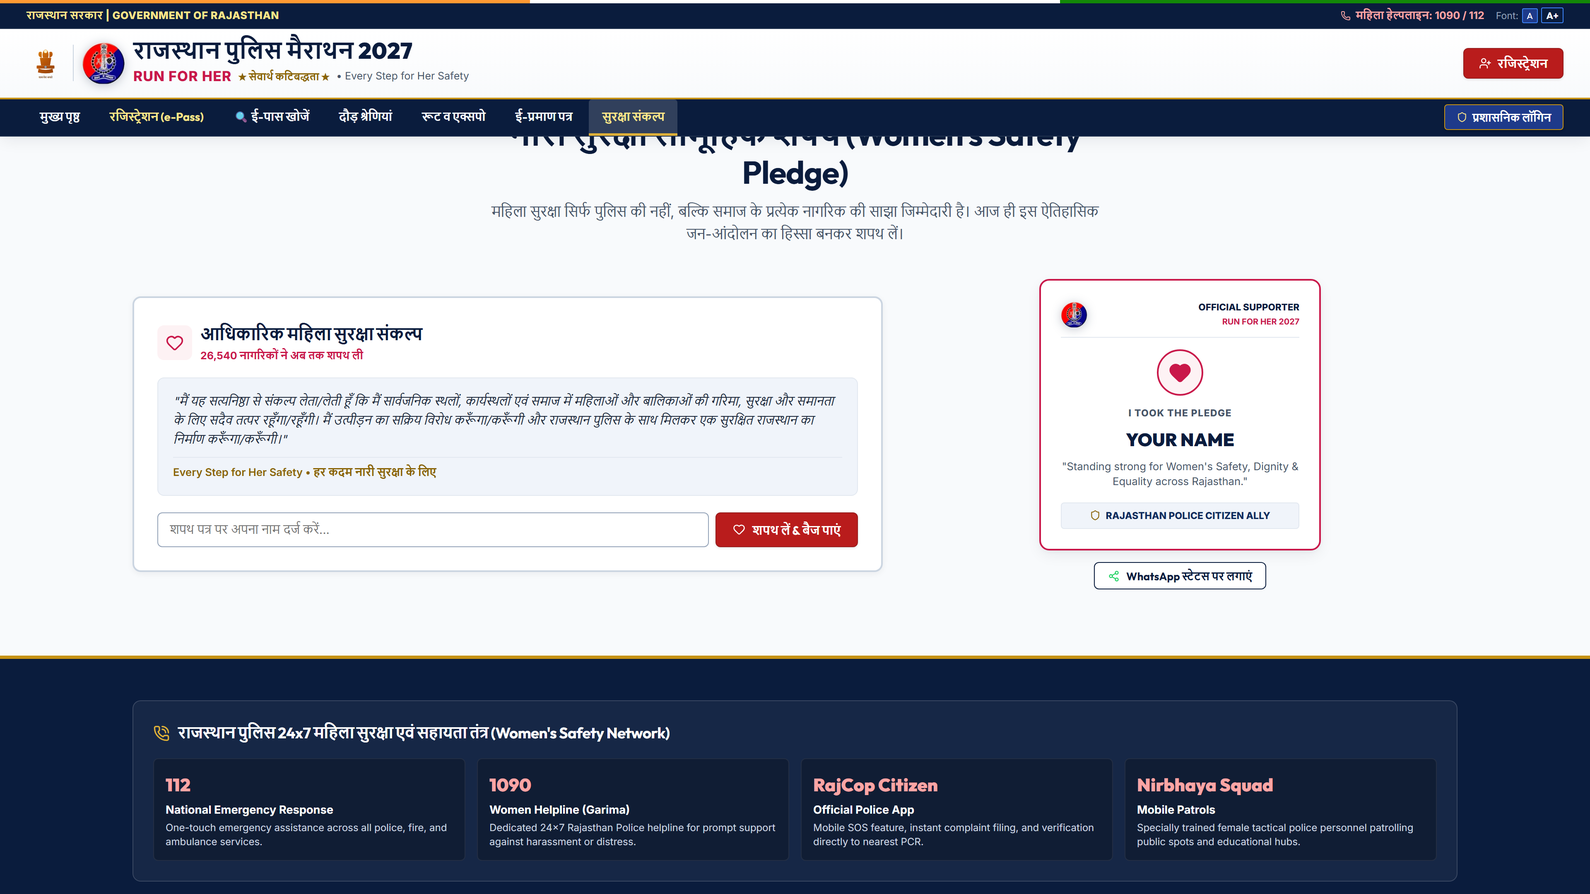
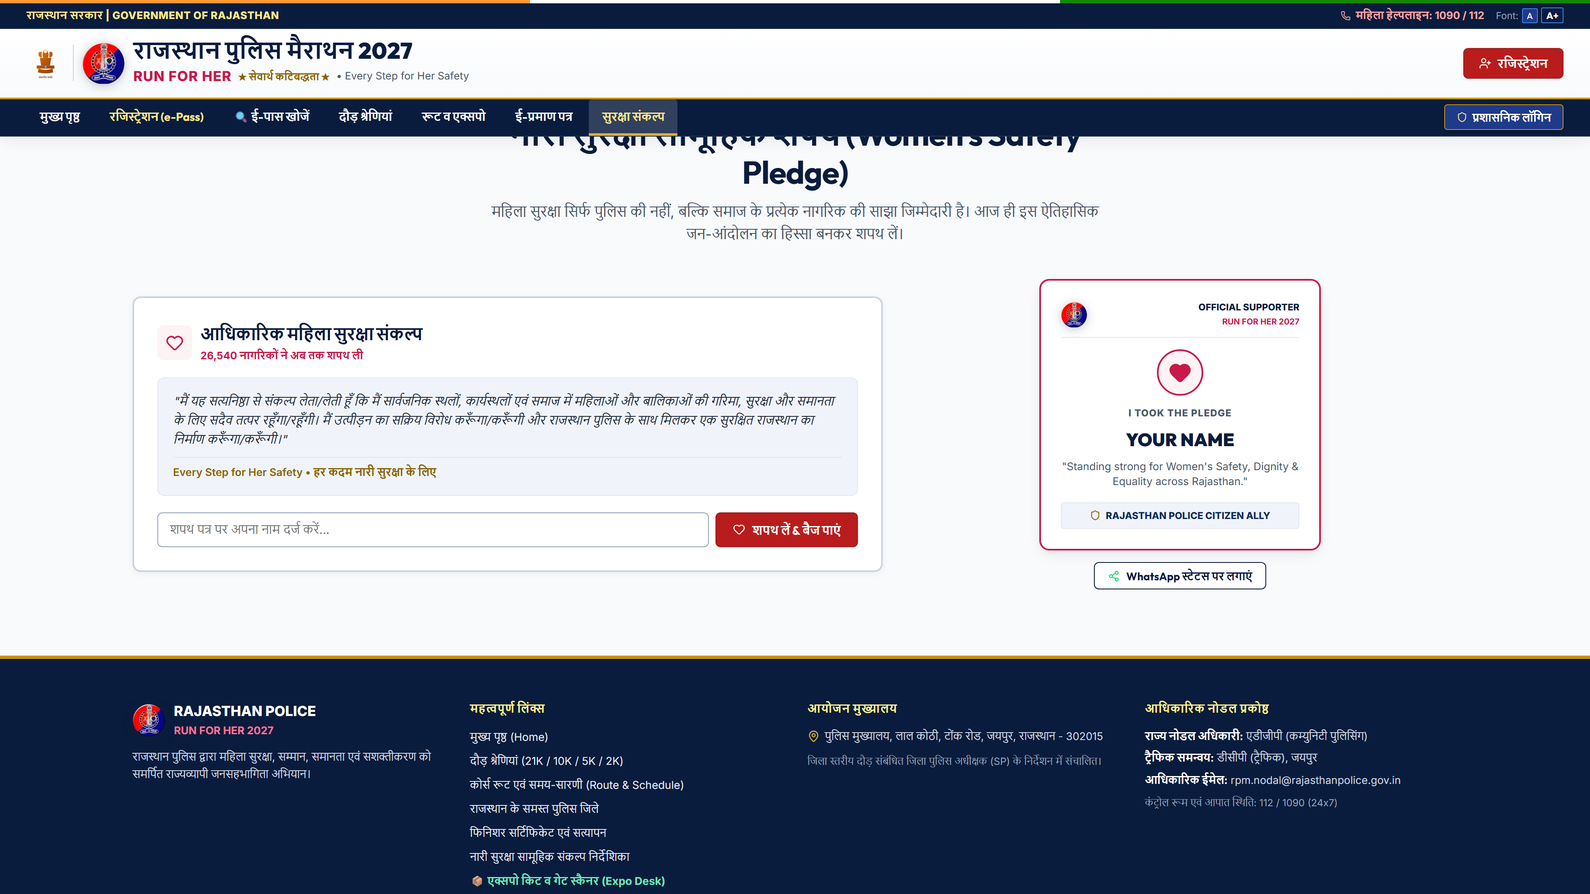
UI refinement: simplified prize heading, set prize money to To Be Announced, cleaned hero notice ticker and footer

Changed region(s): [[0.0625, 0.7755, 0.4688, 0.9926], [0.5, 0.7755, 0.6875, 0.9616], [0.7188, 0.7755, 0.875, 0.9616]]

diff --git a/src/components/Footer.jsx b/src/components/Footer.jsx
@@ -1,139 +1,106 @@
-import React from 'react';
-import { PoliceEmblem } from './Emblems';
-import { SAFETY_HELPLINES } from '../data/mockData';
-import { PhoneCall, MapPin } from 'lucide-react';
-
-export function Footer({ onNavigate }) {
-  const handleNav = (e, pageId) => {
-    e.preventDefault();
-    if (onNavigate) {
-      onNavigate(pageId);
-    } else {
-      const el = document.getElementById(pageId);
-      if (el) el.scrollIntoView({ behavior: 'smooth' });
-    }
-  };
-
-  return (
-    <footer style={{
-      background: 'var(--police-navy-900)',
-      color: '#ffffff',
-      borderTop: '4px solid var(--police-gold-500)',
-      paddingTop: '50px',
-      paddingBottom: '24px',
-      position: 'relative'
-    }}>
-      <div className="container">
-        {/* Rajasthan Police Women Safety Grid */}
-        <div style={{
-          background: 'rgba(255, 255, 255, 0.05)',
-          border: '1px solid rgba(255, 255, 255, 0.15)',
-          borderRadius: '10px',
-          padding: '24px',
-          marginBottom: '40px'
-        }}>
-          <div style={{ display: 'flex', alignItems: 'center', gap: '10px', marginBottom: '16px' }}>
-            <PhoneCall size={20} color="var(--police-gold-400)" />
-            <h3 style={{ fontSize: '1.15rem', color: '#ffffff' }}>
-              राजस्थान पुलिस 24x7 महिला सुरक्षा एवं सहायता तंत्र (Women's Safety Network)
-            </h3>
-          </div>
-
-          <div style={{ display: 'grid', gridTemplateColumns: 'repeat(auto-fit, minmax(200px, 1fr))', gap: '14px' }}>
-            {SAFETY_HELPLINES.map((item, idx) => (
-              <div key={idx} style={{ background: 'rgba(0, 0, 0, 0.25)', padding: '14px', borderRadius: '6px', border: '1px solid rgba(255, 255, 255, 0.08)' }}>
-                <div style={{ fontSize: '1.35rem', fontWeight: 900, color: '#fca5a5', fontFamily: 'var(--font-heading)', marginBottom: '2px' }}>
-                  {item.number}
-                </div>
-                <div style={{ fontSize: '0.85rem', fontWeight: 700, color: '#ffffff', marginBottom: '2px' }}>
-                  {item.title}
-                </div>
-                <div style={{ fontSize: '0.75rem', color: '#cbd5e1', lineHeight: 1.4 }}>
-                  {item.desc}
-                </div>
-              </div>
-            ))}
-          </div>
-        </div>
-
-        {/* Footer Main Links & Identity */}
-        <div style={{ display: 'grid', gridTemplateColumns: 'repeat(auto-fit, minmax(240px, 1fr))', gap: '30px', marginBottom: '36px' }}>
-          <div>
-            <div style={{ display: 'flex', alignItems: 'center', gap: '10px', marginBottom: '12px' }}>
-              <PoliceEmblem size={40} />
-              <div>
-                <div style={{ fontWeight: 800, color: '#ffffff', fontSize: '1.05rem' }}>RAJASTHAN POLICE</div>
-                <div style={{ color: '#ff7597', fontWeight: 700, fontSize: '0.8rem' }}>RUN FOR HER 2027</div>
-              </div>
-            </div>
-            <p style={{ fontSize: '0.8rem', color: '#cbd5e1', lineHeight: 1.6 }}>
-              राजस्थान पुलिस द्वारा महिला सुरक्षा, सम्मान, समानता एवं सशक्तीकरण को समर्पित राज्यव्यापी जनसहभागिता अभियान।
-            </p>
-          </div>
-
-          <div>
-            <h4 style={{ fontSize: '0.85rem', color: '#fef08a', textTransform: 'uppercase', letterSpacing: '0.04em', marginBottom: '12px' }}>
-              महत्वपूर्ण लिंक्स
-            </h4>
-            <ul style={{ listStyle: 'none', display: 'flex', flexDirection: 'column', gap: '8px', fontSize: '0.82rem', color: '#e2e8f0' }}>
-              <li><a href="#home" onClick={(e) => handleNav(e, 'home')}>मुख्य पृष्ठ (Home)</a></li>
-              <li><a href="#categories" onClick={(e) => handleNav(e, 'categories')}>दौड़ श्रेणियां (21K / 10K / 5K / 2K)</a></li>
-              <li><a href="#route-schedule" onClick={(e) => handleNav(e, 'route-schedule')}>कोर्स रूट एवं समय-सारणी (Route & Schedule)</a></li>
-              <li><a href="#districts" onClick={(e) => handleNav(e, 'districts')}>राजस्थान के समस्त पुलिस जिले</a></li>
-              <li><a href="#certificates" onClick={(e) => handleNav(e, 'certificates')}>फिनिशर सर्टिफिकेट एवं सत्यापन</a></li>
-              <li><a href="#pledge-safety" onClick={(e) => handleNav(e, 'pledge-safety')}>नारी सुरक्षा सामूहिक संकल्प निर्देशिका</a></li>
-              <li><a href="#expo-terminal" onClick={(e) => handleNav(e, 'expo-terminal')} style={{ color: '#6ee7b7', fontWeight: 700 }}>📦 एक्सपो किट व गेट स्कैनर (Expo Desk)</a></li>
-            </ul>
-          </div>
-
-          <div>
-            <h4 style={{ fontSize: '0.85rem', color: '#fef08a', textTransform: 'uppercase', letterSpacing: '0.04em', marginBottom: '12px' }}>
-              आयोजन मुख्यालय
-            </h4>
-            <div style={{ fontSize: '0.8rem', color: '#cbd5e1', lineHeight: 1.6 }}>
-              <div style={{ display: 'flex', alignItems: 'flex-start', gap: '6px', marginBottom: '6px' }}>
-                <MapPin size={15} color="var(--police-gold-400)" style={{ marginTop: '2px', flexShrink: 0 }} />
-                <span>पुलिस मुख्यालय, लाल कोठी, टोंक रोड, जयपुर, राजस्थान - 302015</span>
-              </div>
-              <div style={{ marginTop: '10px', fontSize: '0.75rem', color: '#94a3b8' }}>
-                जिला स्तरीय दौड़ संबंधित जिला पुलिस अधीक्षक (SP) के निर्देशन में संचालित।
-              </div>
-            </div>
-          </div>
-
-          <div>
-            <h4 style={{ fontSize: '0.85rem', color: '#fef08a', textTransform: 'uppercase', letterSpacing: '0.04em', marginBottom: '12px' }}>
-              आधिकारिक नोडल प्रकोष्ठ
-            </h4>
-            <div style={{ fontSize: '0.8rem', color: '#cbd5e1', lineHeight: 1.6 }}>
-              <div style={{ marginBottom: '6px' }}>
-                <strong style={{ color: '#ffffff' }}>राज्य नोडल अधिकारी:</strong> एडीजीपी (कम्युनिटी पुलिसिंग)
-              </div>
-              <div style={{ marginBottom: '6px' }}>
-                <strong style={{ color: '#ffffff' }}>ट्रैफिक समन्वय:</strong> डीसीपी (ट्रैफिक), जयपुर
-              </div>
-              <div style={{ marginBottom: '6px' }}>
-                <strong style={{ color: '#ffffff' }}>आधिकारिक ईमेल:</strong> rpm.nodal@rajasthanpolice.gov.in
-              </div>
-              <div style={{ marginTop: '8px', fontSize: '0.74rem', color: '#94a3b8' }}>
-                कंट्रोल रूम एवं आपात स्थिति: 112 / 1090 (24x7)
-              </div>
-            </div>
-          </div>
-        </div>
-
-        {/* Bottom Bar */}
-        <div style={{ borderTop: '1px solid rgba(255, 255, 255, 0.1)', paddingTop: '18px', display: 'flex', justifyContent: 'space-between', alignItems: 'center', flexWrap: 'wrap', gap: '10px', fontSize: '0.75rem', color: '#94a3b8' }}>
-          <div>
-            © 2027 राजस्थान पुलिस, राजस्थान सरकार। सर्वाधिकार सुरक्षित।
-          </div>
-          <div style={{ display: 'flex', gap: '12px' }}>
-            <span>"Every Step for Her Safety"</span>
-            <span>•</span>
-            <span style={{ color: '#fef08a' }}>हर कदम नारी सुरक्षा के लिए</span>
-          </div>
-        </div>
-      </div>
-    </footer>
-  );
-}
+import React from 'react';
+import { PoliceEmblem } from './Emblems';
+import { MapPin } from 'lucide-react';
+
+export function Footer({ onNavigate }) {
+  const handleNav = (e, pageId) => {
+    e.preventDefault();
+    if (onNavigate) {
+      onNavigate(pageId);
+    } else {
+      const el = document.getElementById(pageId);
+      if (el) el.scrollIntoView({ behavior: 'smooth' });
+    }
+  };
+
+  return (
+    <footer style={{
+      background: 'var(--police-navy-900)',
+      color: '#ffffff',
+      borderTop: '4px solid var(--police-gold-500)',
+      paddingTop: '50px',
+      paddingBottom: '24px',
+      position: 'relative'
+    }}>
+      <div className="container">
+        {/* Footer Main Links & Identity */}
+        <div style={{ display: 'grid', gridTemplateColumns: 'repeat(auto-fit, minmax(240px, 1fr))', gap: '30px', marginBottom: '36px' }}>
+          <div>
+            <div style={{ display: 'flex', alignItems: 'center', gap: '10px', marginBottom: '12px' }}>
+              <PoliceEmblem size={40} />
+              <div>
+                <div style={{ fontWeight: 800, color: '#ffffff', fontSize: '1.05rem' }}>RAJASTHAN POLICE</div>
+                <div style={{ color: '#ff7597', fontWeight: 700, fontSize: '0.8rem' }}>RUN FOR HER 2027</div>
+              </div>
+            </div>
+            <p style={{ fontSize: '0.8rem', color: '#cbd5e1', lineHeight: 1.6 }}>
+              राजस्थान पुलिस द्वारा महिला सुरक्षा, सम्मान, समानता एवं सशक्तीकरण को समर्पित राज्यव्यापी जनसहभागिता अभियान।
+            </p>
+          </div>
+
+          <div>
+            <h4 style={{ fontSize: '0.85rem', color: '#fef08a', textTransform: 'uppercase', letterSpacing: '0.04em', marginBottom: '12px' }}>
+              महत्वपूर्ण लिंक्स
+            </h4>
+            <ul style={{ listStyle: 'none', display: 'flex', flexDirection: 'column', gap: '8px', fontSize: '0.82rem', color: '#e2e8f0' }}>
+              <li><a href="#home" onClick={(e) => handleNav(e, 'home')}>मुख्य पृष्ठ (Home)</a></li>
+              <li><a href="#categories" onClick={(e) => handleNav(e, 'categories')}>दौड़ श्रेणियां (21K / 10K / 5K / 2K)</a></li>
+              <li><a href="#route-schedule" onClick={(e) => handleNav(e, 'route-schedule')}>कोर्स रूट एवं समय-सारणी (Route & Schedule)</a></li>
+              <li><a href="#districts" onClick={(e) => handleNav(e, 'districts')}>राजस्थान के समस्त पुलिस जिले</a></li>
+              <li><a href="#certificates" onClick={(e) => handleNav(e, 'certificates')}>फिनिशर सर्टिफिकेट एवं सत्यापन</a></li>
+              <li><a href="#pledge-safety" onClick={(e) => handleNav(e, 'pledge-safety')}>नारी सुरक्षा सामूहिक संकल्प निर्देशिका</a></li>
+              <li><a href="#expo-terminal" onClick={(e) => handleNav(e, 'expo-terminal')} style={{ color: '#6ee7b7', fontWeight: 700 }}>📦 एक्सपो किट व गेट स्कैनर (Expo Desk)</a></li>
+            </ul>
+          </div>
+
+          <div>
+            <h4 style={{ fontSize: '0.85rem', color: '#fef08a', textTransform: 'uppercase', letterSpacing: '0.04em', marginBottom: '12px' }}>
+              आयोजन मुख्यालय
+            </h4>
+            <div style={{ fontSize: '0.8rem', color: '#cbd5e1', lineHeight: 1.6 }}>
+              <div style={{ display: 'flex', alignItems: 'flex-start', gap: '6px', marginBottom: '6px' }}>
+                <MapPin size={15} color="var(--police-gold-400)" style={{ marginTop: '2px', flexShrink: 0 }} />
+                <span>पुलिस मुख्यालय, लाल कोठी, टोंक रोड, जयपुर, राजस्थान - 302015</span>
+              </div>
+              <div style={{ marginTop: '10px', fontSize: '0.75rem', color: '#94a3b8' }}>
+                जिला स्तरीय दौड़ संबंधित जिला पुलिस अधीक्षक (SP) के निर्देशन में संचालित।
+              </div>
+            </div>
+          </div>
+
+          <div>
+            <h4 style={{ fontSize: '0.85rem', color: '#fef08a', textTransform: 'uppercase', letterSpacing: '0.04em', marginBottom: '12px' }}>
+              आधिकारिक नोडल प्रकोष्ठ
+            </h4>
+            <div style={{ fontSize: '0.8rem', color: '#cbd5e1', lineHeight: 1.6 }}>
+              <div style={{ marginBottom: '6px' }}>
+                <strong style={{ color: '#ffffff' }}>राज्य नोडल अधिकारी:</strong> एडीजीपी (कम्युनिटी पुलिसिंग)
+              </div>
+              <div style={{ marginBottom: '6px' }}>
+                <strong style={{ color: '#ffffff' }}>ट्रैफिक समन्वय:</strong> डीसीपी (ट्रैफिक), जयपुर
+              </div>
+              <div style={{ marginBottom: '6px' }}>
+                <strong style={{ color: '#ffffff' }}>आधिकारिक ईमेल:</strong> rpm.nodal@rajasthanpolice.gov.in
+              </div>
+              <div style={{ marginTop: '8px', fontSize: '0.74rem', color: '#94a3b8' }}>
+                कंट्रोल रूम एवं आपात स्थिति: 112 / 1090 (24x7)
+              </div>
+            </div>
+          </div>
+        </div>
+
+        {/* Bottom Bar */}
+        <div style={{ borderTop: '1px solid rgba(255, 255, 255, 0.1)', paddingTop: '18px', display: 'flex', justifyContent: 'space-between', alignItems: 'center', flexWrap: 'wrap', gap: '10px', fontSize: '0.75rem', color: '#94a3b8' }}>
+          <div>
+            © 2027 राजस्थान पुलिस, राजस्थान सरकार। सर्वाधिकार सुरक्षित।
+          </div>
+          <div style={{ display: 'flex', gap: '12px' }}>
+            <span>"Every Step for Her Safety"</span>
+            <span>•</span>
+            <span style={{ color: '#fef08a' }}>हर कदम नारी सुरक्षा के लिए</span>
+          </div>
+        </div>
+      </div>
+    </footer>
+  );
+}

diff --git a/src/components/PrizePodiumSection.jsx b/src/components/PrizePodiumSection.jsx
@@ -14,29 +14,10 @@ export function PrizePodiumSection({ onOpenRegister }) {
     >
       <div className="container">
         {/* Section Header */}
-        <div className="section-header" style={{ marginBottom: '36px' }}>
-          <div style={{ display: 'inline-flex', alignItems: 'center', gap: '8px', marginBottom: '8px' }}>
-            <span style={{
-              fontSize: '0.84rem',
-              padding: '6px 14px',
-              display: 'inline-flex',
-              alignItems: 'center',
-              gap: '6px',
-              background: '#0f172a',
-              color: '#ffffff',
-              borderRadius: '6px',
-              fontWeight: 800
-            }}>
-              <Trophy size={15} color="#fde047" />
-              आधिकारिक नकद पुरस्कार राशि (Official Cash Prize Money)
-            </span>
-          </div>
-          <h2 style={{ fontSize: 'clamp(1.75rem, 3.5vw, 2.35rem)', color: '#0f172a', margin: '8px 0 10px 0', fontWeight: 900 }}>
-            जयपुर मुख्य फ्लैगशिप — नकद पुरस्कार एवं सम्मान पोडियम
+        <div className="section-header" style={{ marginBottom: '32px', textAlign: 'center' }}>
+          <h2 style={{ fontSize: 'clamp(1.75rem, 3.5vw, 2.35rem)', color: '#0f172a', margin: '0 0 8px 0', fontWeight: 900 }}>
+            Prizes & Rewards (पुरस्कार एवं सम्मान)
           </h2>
-          <p style={{ fontSize: '1.02rem', color: '#475569', lineHeight: '1.6', maxWidth: '840px', margin: '0 auto', fontWeight: 500 }}>
-            अल्बर्ट हॉल, जयपुर मुख्य फ्लैगशिप मैराथन में भाग लेने वाले शीर्ष धावकों के लिए विशेष नकद पुरस्कार एवं सभी श्रेणियों में मेडल, ड्राई-फिट टी-शर्ट व रिफ्रेशमेंट्स किट।
-          </p>
         </div>
 
         {/* 3-Column Prize Cards Grid */}
@@ -97,7 +78,7 @@ export function PrizePodiumSection({ onOpenRegister }) {
                     <span style={{ fontSize: '1.25rem' }}>🥇</span>
                     <span>1st Prize (प्रथम विजेता)</span>
                   </div>
-                  <span style={{ fontWeight: 900, fontSize: '1.3rem', color: '#fde047' }}>₹21,000</span>
+                  <span style={{ fontWeight: 800, fontSize: '0.95rem', color: '#fde047' }}>To Be Announced</span>
                 </div>
 
                 <div style={{
@@ -113,7 +94,7 @@ export function PrizePodiumSection({ onOpenRegister }) {
                     <span style={{ fontSize: '1.25rem' }}>🥈</span>
                     <span>2nd Prize (द्वितीय विजेता)</span>
                   </div>
-                  <span style={{ fontWeight: 900, fontSize: '1.25rem', color: '#0f172a' }}>₹11,000</span>
+                  <span style={{ fontWeight: 800, fontSize: '0.95rem', color: '#0f172a' }}>To Be Announced</span>
                 </div>
 
                 <div style={{
@@ -129,7 +110,7 @@ export function PrizePodiumSection({ onOpenRegister }) {
                     <span style={{ fontSize: '1.25rem' }}>🥉</span>
                     <span>3rd Prize (तृतीय विजेता)</span>
                   </div>
-                  <span style={{ fontWeight: 900, fontSize: '1.25rem', color: '#0f172a' }}>₹5,100</span>
+                  <span style={{ fontWeight: 800, fontSize: '0.95rem', color: '#0f172a' }}>To Be Announced</span>
                 </div>
               </div>
 
@@ -190,7 +171,7 @@ export function PrizePodiumSection({ onOpenRegister }) {
                     <span style={{ fontSize: '1.25rem' }}>🥇</span>
                     <span>1st Prize (प्रथम विजेता)</span>
                   </div>
-                  <span style={{ fontWeight: 900, fontSize: '1.3rem', color: '#fde047' }}>₹11,000</span>
+                  <span style={{ fontWeight: 800, fontSize: '0.95rem', color: '#fde047' }}>To Be Announced</span>
                 </div>
 
                 <div style={{
@@ -206,7 +187,7 @@ export function PrizePodiumSection({ onOpenRegister }) {
                     <span style={{ fontSize: '1.25rem' }}>🥈</span>
                     <span>2nd Prize (द्वितीय विजेता)</span>
                   </div>
-                  <span style={{ fontWeight: 900, fontSize: '1.25rem', color: '#0f172a' }}>₹5,100</span>
+                  <span style={{ fontWeight: 800, fontSize: '0.95rem', color: '#0f172a' }}>To Be Announced</span>
                 </div>
 
                 <div style={{
@@ -222,7 +203,7 @@ export function PrizePodiumSection({ onOpenRegister }) {
                     <span style={{ fontSize: '1.25rem' }}>🥉</span>
                     <span>3rd Prize (तृतीय विजेता)</span>
                   </div>
-                  <span style={{ fontWeight: 900, fontSize: '1.25rem', color: '#0f172a' }}>₹2,100</span>
+                  <span style={{ fontWeight: 800, fontSize: '0.95rem', color: '#0f172a' }}>To Be Announced</span>
                 </div>
               </div>
 

diff --git a/src/data/mockData.js b/src/data/mockData.js
@@ -12,9 +12,9 @@ export const RACE_CATEGORIES = [
     reporting: "05:00 AM",
     description: "The premier competitive endurance run for seasoned marathoners, police personnel, and serious athletes.",
     prizes: [
-      { rank: "1st", amount: "₹21,000", trophy: "🥇", label: "प्रथम" },
-      { rank: "2nd", amount: "₹11,000", trophy: "🥈", label: "द्वितीय" },
-      { rank: "3rd", amount: "₹5,100", trophy: "🥉", label: "तृतीय" }
+      { rank: "1st", amount: "To Be Announced", trophy: "🥇", label: "प्रथम" },
+      { rank: "2nd", amount: "To Be Announced", trophy: "🥈", label: "द्वितीय" },
+      { rank: "3rd", amount: "To Be Announced", trophy: "🥉", label: "तृतीय" }
     ],
     prizeNote: "नकद पुरस्कार केवल जयपुर मुख्य फ्लैगशिप (अल्बर्ट हॉल) ओपन पोडियम हेतु लागू है।",
     perks: [
@@ -38,9 +38,9 @@ export const RACE_CATEGORIES = [
     reporting: "05:15 AM",
     description: "High-energy timed course designed for intermediate runners, university athletes, and enthusiastic youth.",
     prizes: [
-      { rank: "1st", amount: "₹11,000", trophy: "🥇", label: "प्रथम" },
-      { rank: "2nd", amount: "₹5,100", trophy: "🥈", label: "द्वितीय" },
-      { rank: "3rd", amount: "₹2,100", trophy: "🥉", label: "तृतीय" }
+      { rank: "1st", amount: "To Be Announced", trophy: "🥇", label: "प्रथम" },
+      { rank: "2nd", amount: "To Be Announced", trophy: "🥈", label: "द्वितीय" },
+      { rank: "3rd", amount: "To Be Announced", trophy: "🥉", label: "तृतीय" }
     ],
     prizeNote: "नकद पुरस्कार केवल जयपुर मुख्य फ्लैगशिप (अल्बर्ट हॉल) ओपन पोडियम हेतु लागू है।",
     perks: [

diff --git a/src/components/Hero.jsx b/src/components/Hero.jsx
@@ -66,27 +66,7 @@ export function Hero({ onOpenRegister, onOpenFindPass, totalRegistered = "1000+"
             position: 'relative',
             height: '48px'
           }}>
-            {/* Badge */}
-            <div className="hero-ticker-badge" style={{
-              background: 'linear-gradient(135deg, #b91c1c 0%, #991b1b 100%)',
-              color: '#ffffff',
-              padding: '0 18px',
-              height: '100%',
-              display: 'inline-flex',
-              alignItems: 'center',
-              gap: '8px',
-              fontWeight: 900,
-              fontSize: '0.88rem',
-              letterSpacing: '0.05em',
-              textTransform: 'uppercase',
-              flexShrink: 0,
-              zIndex: 3,
-              boxShadow: '4px 0 12px rgba(0, 0, 0, 0.4)'
-            }}>
-              <span style={{ width: '8px', height: '8px', borderRadius: '50%', background: '#fef08a', display: 'inline-block', boxShadow: '0 0 8px #fef08a' }}></span>
-              <Bell size={16} color="#fef08a" />
-              <span style={{ color: '#ffffff', letterSpacing: '0.04em' }}>आधिकारिक बुलेटिन</span>
-            </div>
+
 
             {/* Marquee Track */}
             <div className="notice-ticker-track-container" style={{

diff --git a/src/components/Categories.jsx b/src/components/Categories.jsx
@@ -129,7 +129,7 @@ export function Categories({ onSelectCategory }) {
                           <div style={{ fontSize: '0.72rem', fontWeight: 800, color: idx === 0 ? '#cbd5e1' : '#475569' }}>
                             {p.trophy} {p.label}
                           </div>
-                          <div style={{ fontSize: '1.02rem', fontWeight: 900, color: idx === 0 ? '#fde047' : '#0f172a', marginTop: '2px' }}>
+                          <div style={{ fontSize: '0.82rem', fontWeight: 900, color: idx === 0 ? '#fde047' : '#0f172a', marginTop: '2px', whiteSpace: 'nowrap' }}>
                             {p.amount}
                           </div>
                         </div>
